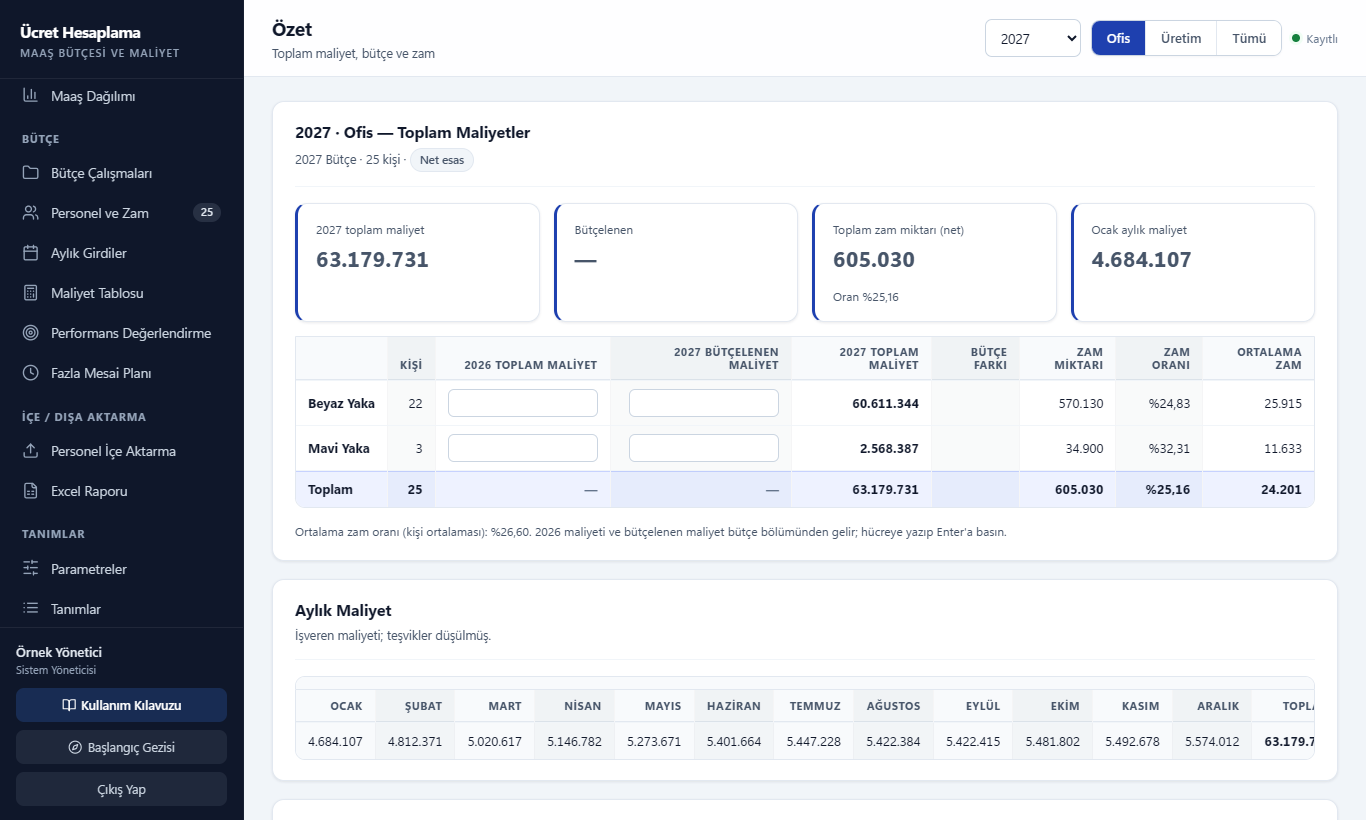
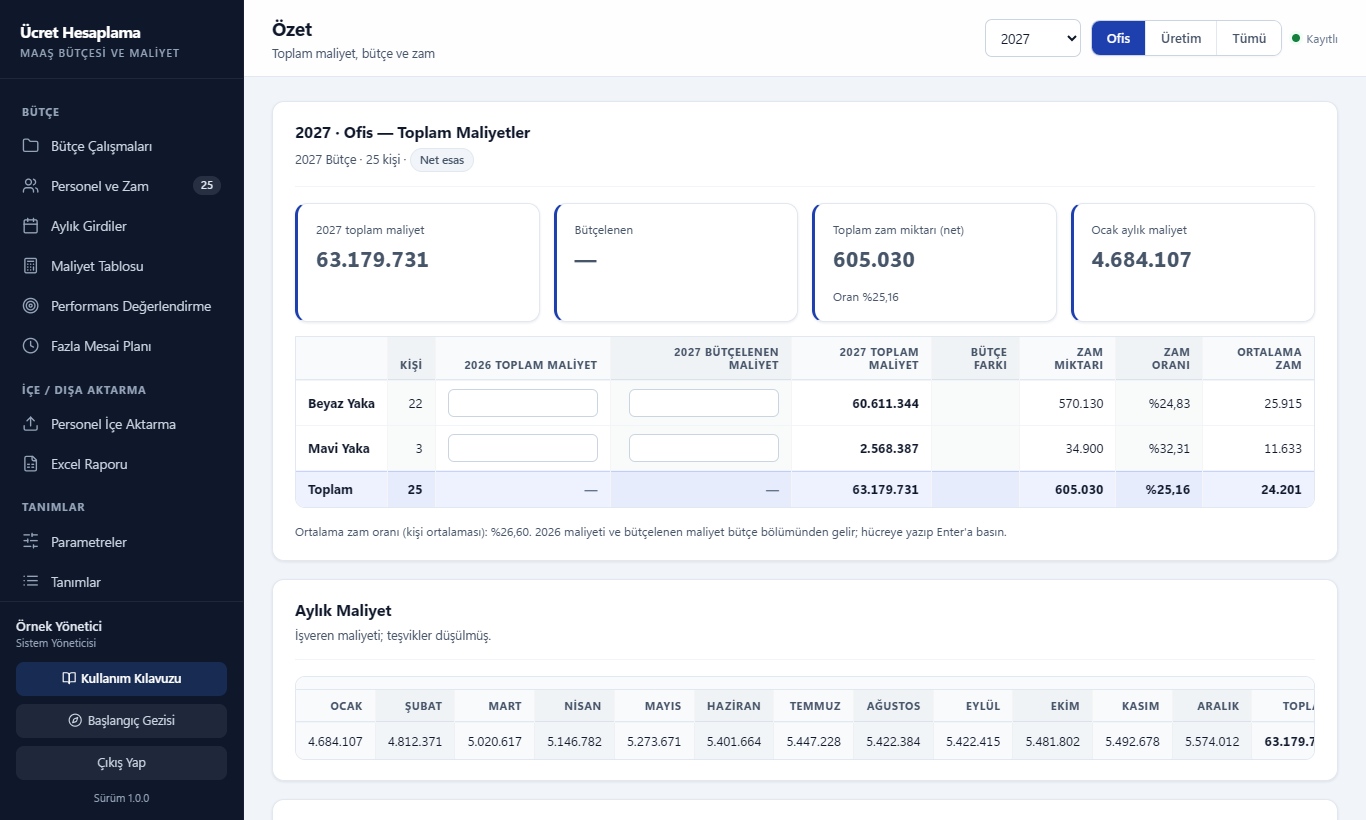
Sürüm 1.0.0: program sürümü ve değişiklik günlüğü
Program sürümü tek kaynakta (app.js → window.PROGRAM_SURUM) ve sol altta
"Sürüm 1.0.0" bağlantısı (GitHub sürüm sayfası) ile Sistem → Veri Deposu
kartında görünür. CHANGELOG.md eklendi; README indirme ve yeni sürüme
geçiş adımları sürüm paketine (Releases) yönlendirir. Sürüm paketine
.gitignore / .gitattributes girmez (export-ignore).

Changed region(s): [[0.0, 0.0915, 0.1845, 0.9756]]

diff --git a/program/js/app.js b/program/js/app.js
@@ -4,6 +4,11 @@
    Modüller kendilerini APP.modulKaydet ile tanıtır:
      { id, ad, ikon, grup, baslik, altBaslik, yetki, ciz(kap, param) }
    ===================================================================== */
+/* PROGRAM SÜRÜMÜ — tek kaynak. Yayında git etiketi (vX.Y.Z) ve CHANGELOG.md ile aynı olmalı.
+   Veritabanı şema sürümü ayrıdır (schema.js: SEMA_SURUM). */
+window.PROGRAM_SURUM = '1.0.0';
+const SURUMLER_ADRESI = 'https://github.com/kgelgec/ucret-hesaplama/releases';
+
 window.APP = (function () {
   'use strict';
 
@@ -710,7 +715,8 @@ window.APP = (function () {
       <div class="rol">${k.yonetici ? 'Sistem Yöneticisi' : 'Kullanıcı'}</div>
       <button id="kilavuzBtn" class="kilavuz-btn">📖 Kullanım Kılavuzu</button>
       <button id="geziBtn">🧭 Başlangıç Gezisi</button>
-      <button id="cikisBtn">Çıkış Yap</button>`;
+      <button id="cikisBtn">Çıkış Yap</button>
+      <a class="surum" href="${SURUMLER_ADRESI}" target="_blank" rel="noopener" title="Yeni sürümler ve değişiklikler (GitHub)">Sürüm ${U.esc(window.PROGRAM_SURUM)}</a>`;
     U.el('kilavuzBtn').onclick = () => git('kilavuz');
     U.el('geziBtn').onclick = () => GEZI.baslat();
     U.el('cikisBtn').onclick = cikis;

diff --git a/program/js/modules/kilavuz.js b/program/js/modules/kilavuz.js
@@ -347,6 +347,9 @@
         <li><strong>Şifreleme:</strong> veri dosyasının şifrelenmesi ve veri parolasının değiştirilmesi.</li>
         <li><strong>Otomatik kapanma:</strong> fare ya da klavye hareketi olmadan ne kadar süre sonra programın kendini kapatacağı.</li>
         <li><strong>Örnek veri:</strong> programı denemek için uydurma iki grubu, personeli ve çalışmaları ekler; var olan kayıtlara dokunmaz.</li>
+        <li><strong>Program sürümü:</strong> sol alttaki "Sürüm" yazısında ve Sistem ekranının Veri Deposu kartında görünür. Yeni sürümler
+          ve değişiklikleri GitHub'daki sürüm sayfasındadır (yazıya tıklayın). Yeni sürüme geçerken önce yedek alın, yeni sürümü ayrı bir
+          klasöre çıkarın ve <code>veri</code>, <code>yedek</code>, <code>yedek-elle</code> klasörlerini yeni klasöre kopyalayın.</li>
       </ul>
       ${dikkat(`<em>Sıfırla…</em> bütün veriyi ve kullanıcı hesaplarını siler; program ilk kurulum ekranıyla açılır. Sıfırlamadan önce mevcut veri
         kendiliğinden yedeklenir, yine de kullanmadan önce yedeğinizi kontrol edin.`)} ${ac('sistem')}` },

diff --git a/program/js/modules/sistem.js b/program/js/modules/sistem.js
@@ -162,6 +162,7 @@
       <p class="kart-aciklama">Veriniz <strong>tarayıcıda değil</strong>, diskteki bir dosyada duruyor. Tarayıcı verisi
         silinse, profil bozulsa ya da başka tarayıcı kullanılsa bile kayıtlarınız yerinde kalır.</p>
       <table class="genis-tablo"><tbody>
+        ${satir('Program sürümü', U.esc(window.PROGRAM_SURUM) + ' · <a href="' + SURUMLER_ADRESI + '" target="_blank" rel="noopener">yeni sürümler</a>')}
         ${satir('Veri dosyası', `<code>${U.esc(b.yol)}</code>`)}
         ${satir('Durum', b.var ? (b.sifreli ? '<span class="rz rz-yesil">şifreli</span>' : '<span class="rz rz-kirmizi">ŞİFRESİZ</span>')
                                : '<span class="rz rz-gri">henüz oluşmadı</span>')}

diff --git a/program/css/app.css b/program/css/app.css
@@ -137,6 +137,8 @@ input:focus-visible, select:focus-visible, textarea:focus-visible{outline:none;}
   transition:background var(--hiz) var(--egri), color var(--hiz) var(--egri);
 }
 .kenar-alt button:hover{background:rgba(148,163,184,.22); color:#fff;}
+.kenar-alt .surum{display:block; margin-top:10px; text-align:center; font-size:11px; color:#94a3b8; text-decoration:none;}
+.kenar-alt .surum:hover, .kenar-alt .surum:focus-visible{color:#e2e8f0; text-decoration:underline;}
 
 main{flex:1; min-width:0; display:flex; flex-direction:column;}
 .ust{

diff --git a/CHANGELOG.md b/CHANGELOG.md
@@ -1,0 +1,56 @@
+# Değişiklik günlüğü
+
+Her sürümde nelerin değiştiği burada yazar. Sürüm numaraları **ana.ara.yama** biçimindedir:
+
+- **yama** (1.0.**1**): hata düzeltmesi; veri ve kullanım değişmez.
+- **ara** (1.**1**.0): yeni özellik; mevcut veri olduğu gibi açılır.
+- **ana** (**2**.0.0): dikkat gerektiren değişiklik; geçiş notu bu dosyada yer alır.
+
+Programın sürümü sol alttaki "Sürüm" yazısında görünür. İndirmek için:
+[Sürümler (Releases)](https://github.com/kgelgec/ucret-hesaplama/releases). Yeni sürüme geçiş adımları README'dedir.
+
+## [1.0.0] — 2026-10-28
+
+İlk açık sürüm.
+
+### Neler var
+
+- **Bütçe çalışmaları:** grup × yıl bazında bütçe; önceki yılın zamlı maaşlarından, aynı yılın kopyasından ya da
+  boş açılış. Onaylanan çalışma parametreleriyle birlikte dondurulur, sonradan revize açılabilir.
+- **Ücret esası:** her çalışma net ya da brüt esaslı açılır. Yeni yıl, kopya ve revize esası kaynaktan devralır; tutar
+  girilmiş çalışmanın esası değiştirilemez. Böylece yıllar arası karşılaştırma hep aynı esasta yapılır.
+- **Zam öngörüsü:** maaş kademesine göre oran, isteğe bağlı performans çarpanı, kişi bazında yönetim düzeltmesi.
+- **Mini bordro:** kişi × ay işveren maliyeti; SGK işçi / işveren payları, tavan, kümülatif gelir vergisi, damga
+  vergisi, asgari ücret istisnası, BES, sakatlık indirimi ve teşvikler (05510, 05746 AR-GE, 14857, 15510). Kişi
+  bazında 12 aylık bordro dökümü.
+- **Aylık girdiler:** prim, ayni yardım, yakıt, fazla mesai saati, çalışılan gün, AR-GE günü; yıl içinde
+  hesaplama türü ya da kanun değişikliği.
+- **Personel:** kişi kartı; temel tanımlar (bölüm, yaka, tarihler, hesaplama türü, kanun, teşvik, sakatlık, BES,
+  zam ayı, performans) tablodan da düzenlenir. Grup taşıma, bütçeden çıkarma.
+- **Personel İçe Aktarma:** Excel / CSV listesi ya da ERP / bordro programı çıktısı başlık adlarıyla tanınır;
+  örnek Excel şablonu indirilebilir.
+- **Excel:** yönetime sunulacak bütçe raporu ve yönetimin düzeltmelerinin geri yüklenmesi; performans ve fazla
+  mesai şablonları.
+- **Tanımlar ekrandan:** yasal parametreler (yıl bazında, açıklanmamış yıl için öngörü), zam kademesi, performans
+  değerlendirme modeli, mesai katsayıları, hesaplama ve kanun türleri, gruplar, bütçe bölümleri, içe aktarma başlıkları.
+- **Kullanıcılar:** kişi bazında yetki ve grup erişimi, işlem kaydı, hareketsizlikte otomatik kapanma.
+- **Veri güvenliği:** isteğe bağlı şifreleme (AES-256-GCM), otomatik ve elle yedek, aynı anda tek yazar (yazma kilidi).
+- **Başlangıç gezisi** ve program içi **Kullanım Kılavuzu**.
+- **Belgeler:** veri modeli, hesap motoru (formüller ve sınama vektörleri), iş kuralları ve yetkiler, ekranlar ve
+  dosya biçimleri (`docs/`); örnek veriyle referans sonuçlar (`docs/referans/`).
+
+### Güvenlik
+
+- Yerel sunucu yazma isteklerini yalnız programın kendi sayfasından kabul eder. Program açıkken başka bir sitenin
+  arka planda veri dosyasına yazması engellenir.
+
+### Bilinen sınırlar
+
+- Kurulumla 2026 yasal parametreleri gelir; her yıl resmî kaynaktan kontrol edilmelidir. Program resmî bordronun
+  yerine geçmez.
+- Net ↔ brüt esas dönüştürmesi yoktur; esası yanlış açılmış çalışma için yeni, boş bir çalışma açılır.
+- Personel İçe Aktarma'da maaş sütununun esası başlıktan anlaşılır: brüt sütunun başlığında "Brüt" geçmelidir.
+- Yılın genel zam eşikleri tek takımdır; brüt esaslı grup eşikleri Çalışma Ayarları'ndan brüt tutarla girmelidir.
+- Teşvik ve sigorta kollarının formülleri koddadır (oranları ekrandan değişir); mevzuatın hesap biçimi değişirse
+  program güncellemesi gerekir.
+- Program Windows'ta denenmiştir.

diff --git a/README.md b/README.md
@@ -122,7 +122,9 @@ içinde ayrıntılı bir **Kullanım Kılavuzu** da vardır.
 Gereken: Windows 10 / 11 (Windows PowerShell zaten yüklüdür) ve güncel bir tarayıcı (Chrome, Edge, Firefox).
 Kurulum programı ya da internet bağlantısı gerekmez.
 
-**1. İndirin.** Bu sayfanın üstündeki yeşil **Code** düğmesi → **Download ZIP**.
+**1. İndirin.** [Son sürüm](https://github.com/kgelgec/ucret-hesaplama/releases/latest) sayfasında, **Assets**
+altındaki `ucret-hesaplama-X.Y.Z.zip` dosyasını indirin. (Sayfanın üstündeki yeşil **Code → Download ZIP** o anki
+geliştirme hâlini indirir; kullanım için sürüm paketini tercih edin.)
 
 **2. Çıkarın.** ZIP dosyasına sağ tıklayıp **Özellikler**'i açın; altta **"Engellemeyi kaldır"** kutusu varsa
 işaretleyip Tamam deyin (internetten inen dosyalarda Windows'un uyarı çıkarmasını azaltır). Sonra **Tümünü ayıkla**
@@ -155,7 +157,8 @@ olarak başka bir yere de yedekleyin.
 ### Yeni sürüme geçmek
 
 1. **Sistem → Yedeği indir** ile bir yedek alın, sonra programı kapatın (siyah pencere).
-2. Yeni sürümün ZIP'ini indirip **ayrı bir klasöre** çıkarın.
+2. [Son sürümün](https://github.com/kgelgec/ucret-hesaplama/releases/latest) ZIP'ini indirip **ayrı bir klasöre**
+   çıkarın. Neyin değiştiği [`CHANGELOG.md`](CHANGELOG.md)'dedir; kullandığınız sürüm sol alttaki "Sürüm" yazısında görünür.
 3. Eski klasördeki `veri`, `yedek` ve `yedek-elle` klasörlerini yeni klasöre (`program` klasörünün yanına) kopyalayın.
 4. Yeni klasördeki `BUTCE-BASLAT.bat` ile açın; veritabanı gerekiyorsa kendiliğinden güncellenir. Her şey
    yerindeyse eski klasörü silebilirsiniz.
@@ -183,6 +186,7 @@ Program Windows'ta denenmiştir (yerel sunucu bir PowerShell betiğidir).
 | `tools/ornek-veri-uret.mjs` | Örnek veri üreteci (`node tools/ornek-veri-uret.mjs`) |
 | `docs/` | Teknik belgeler (aşağıda) |
 | `docs/referans/` | Örnek veriyle kurulmuş şifresiz veritabanı ve kişi kişi, ay ay referans sonuçlar |
+| `CHANGELOG.md` | Sürümler ve değişiklikleri (program sürümü: `program/js/app.js` → `PROGRAM_SURUM`) |
 
 ## Belgeler
 

diff --git a/docs/04-ekranlar-ve-dosya-bicimleri.md b/docs/04-ekranlar-ve-dosya-bicimleri.md
@@ -189,6 +189,7 @@ Menüdeki seçili ekran `etkin` sınıfı ve `aria-current="page"` alır. Tıkla
 - **📖 Kullanım Kılavuzu** → `git('kilavuz')` (§3.15). (📖 düğme içinde olduğu için kitap simgesine çevrilir, §2.15.)
 - **🧭 Başlangıç Gezisi** (`#geziBtn`) → `GEZI.baslat()` (§1.7). (🧭 pusula simgesine çevrilir.)
 - **Çıkış Yap** → kilit bırakılır, `API.cikisYap` (işlem kaydına `CIKIS`), veri hemen kaydedilir, açık pencereler kapanır, giriş perdesi açılır.
+- En altta küçük, soluk "Sürüm X.Y.Z" bağlantısı (`window.PROGRAM_SURUM`, `app.js`): GitHub'daki sürüm sayfasını yeni sekmede açar (internet yoksa açılmaz; program etkilenmez).
 
 ### 1.5 Üst çubuk: yıl · grup · çalışma seçici (`app.js:calismaSeciciCiz`)
 
@@ -1737,6 +1738,7 @@ Yetki ve grup değişikliği açık oturumlara da yansır: her ekran geçişinde
 
 | Satır | Değer |
 |---|---|
+| Program sürümü | `window.PROGRAM_SURUM` + "yeni sürümler" bağlantısı (GitHub sürüm sayfası, yeni sekmede) |
 | Veri dosyası | dosya yolu (`code`) |
 | Durum | dosya varsa yeşil "şifreli" / kırmızı "ŞİFRESİZ"; yoksa gri "henüz oluşmadı" |
 | Boyut | "N KB" ya da "—" |

diff --git a/docs/01-veri-modeli-ve-depolama.md b/docs/01-veri-modeli-ve-depolama.md
@@ -706,7 +706,7 @@ Bağımsız (FK'siz) tablolar: sistem_bilgi, islem_log, kanun_turu,
 
 ## 4. Şema sürümleri ve veri göçleri
 
-Şu anki sürüm **1**'dir ve hiç göç tanımlı değildir: `SEMA_SURUM = 1`, `EKSIK_SUTUNLAR = []`, `TABLO_GOC = []`, `VERI_GOCLERI = []` (`schema.js`). Mekanizma, programı kendi kurumuna uyarlayan ya da ileride şemayı değiştirecek olanlar için hazır durmaktadır: var olan veri dosyaları elle müdahale gerekmeden yeni şemaya yükseltilir.
+Şema sürümü **program sürümünden ayrıdır** (program sürümü `app.js` → `window.PROGRAM_SURUM`, ör. 1.0.0; değişiklikleri `CHANGELOG.md`): her program sürümü şemayı değiştirmez. Şu anki sürüm **1**'dir ve hiç göç tanımlı değildir: `SEMA_SURUM = 1`, `EKSIK_SUTUNLAR = []`, `TABLO_GOC = []`, `VERI_GOCLERI = []` (`schema.js`). Mekanizma, programı kendi kurumuna uyarlayan ya da ileride şemayı değiştirecek olanlar için hazır durmaktadır: var olan veri dosyaları elle müdahale gerekmeden yeni şemaya yükseltilir.
 
 ### 4.1 Sürüm denetimi nasıl çalışır (`engine.js:surumKontrol`)
 
